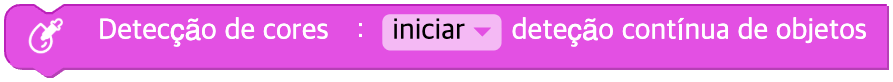
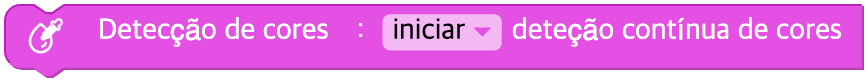
ColorDetection detect_once / detect_continuous 블록 이미지 재촬영 반영

Changed region(s): [[0.0311, 0.1707, 0.9643, 0.6341], [0.0311, 0.8537, 0.0933, 0.9512], [0.0311, 0.0488, 0.0933, 0.1463]]

diff --git a/docs/pages/zh-hans/AI/ColorDetection.md b/docs/pages/zh-hans/AI/ColorDetection.md
@@ -99,7 +99,7 @@ color_detection = ColorDetection(0)
 color_detection.area_condition(50)
 ```
 
-## 检测一次物体 {#detect_once}
+## 检测一次颜色 {#detect_once}
 
 在可识别的颜色中，找出当前画面里的颜色，只标示一次它们的区域。
 
@@ -116,7 +116,7 @@ color_detection = ColorDetection(0)
 color_detection.detect_once()
 ```
 
-## 开始 / 停止持续检测物体 {#detect_continuous}
+## 开始 / 停止持续检测颜色 {#detect_continuous}
 
 在可识别的颜色中，持续跟踪当前画面里的颜色，并在画面上标示它们的区域。
 

diff --git a/docs/pages/zh-hant/AI/ColorDetection.md b/docs/pages/zh-hant/AI/ColorDetection.md
@@ -99,7 +99,7 @@ color_detection = ColorDetection(0)
 color_detection.area_condition(50)
 ```
 
-## 偵測一次物體 {#detect_once}
+## 偵測一次顏色 {#detect_once}
 
 在可識別的顏色中，找出目前畫面里的顏色，只標示一次它們的區域。
 
@@ -116,7 +116,7 @@ color_detection = ColorDetection(0)
 color_detection.detect_once()
 ```
 
-## 開始 / 停止持續偵測物體 {#detect_continuous}
+## 開始 / 停止持續偵測顏色 {#detect_continuous}
 
 在可識別的顏色中，持續跟蹤目前畫面里的顏色，並在畫面上標示它們的區域。
 

diff --git a/docs/pages/ja/AI/ColorDetection.md b/docs/pages/ja/AI/ColorDetection.md
@@ -99,7 +99,7 @@ color_detection = ColorDetection(0)
 color_detection.area_condition(50)
 ```
 
-## 1回検出する {#detect_once}
+## 色を1回検出 {#detect_once}
 
 認識できる色のうち、いま画面にある色を見つけて、1 回だけ領域を表示します。
 
